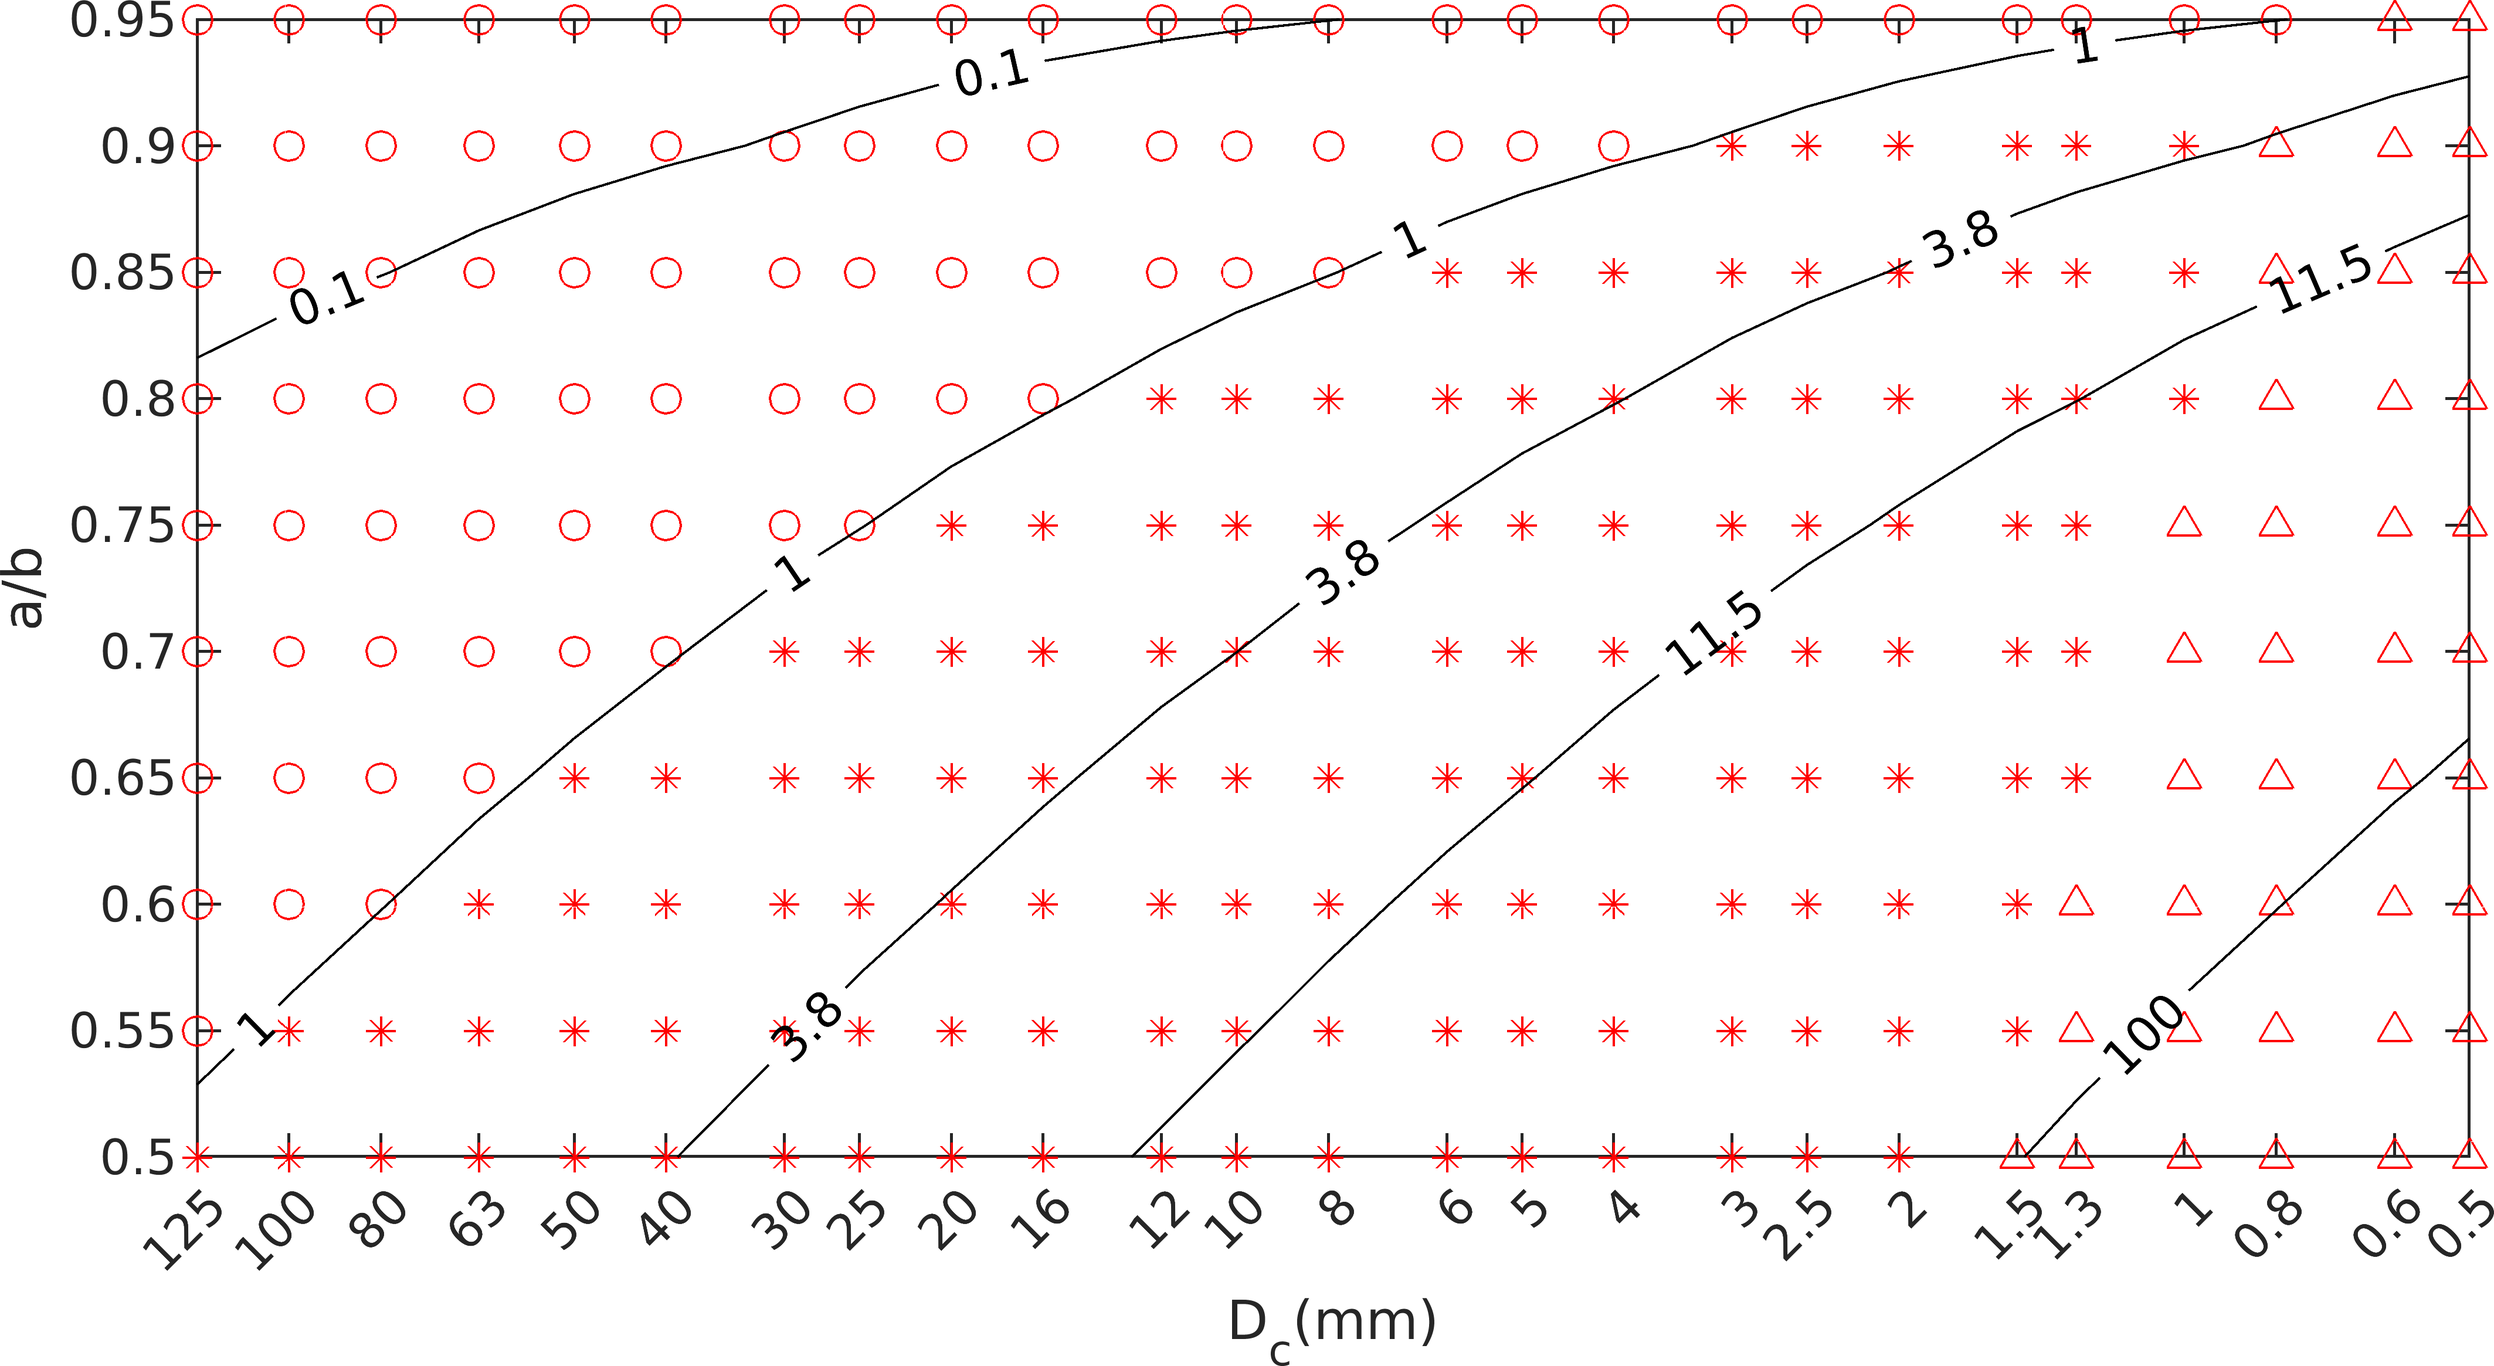
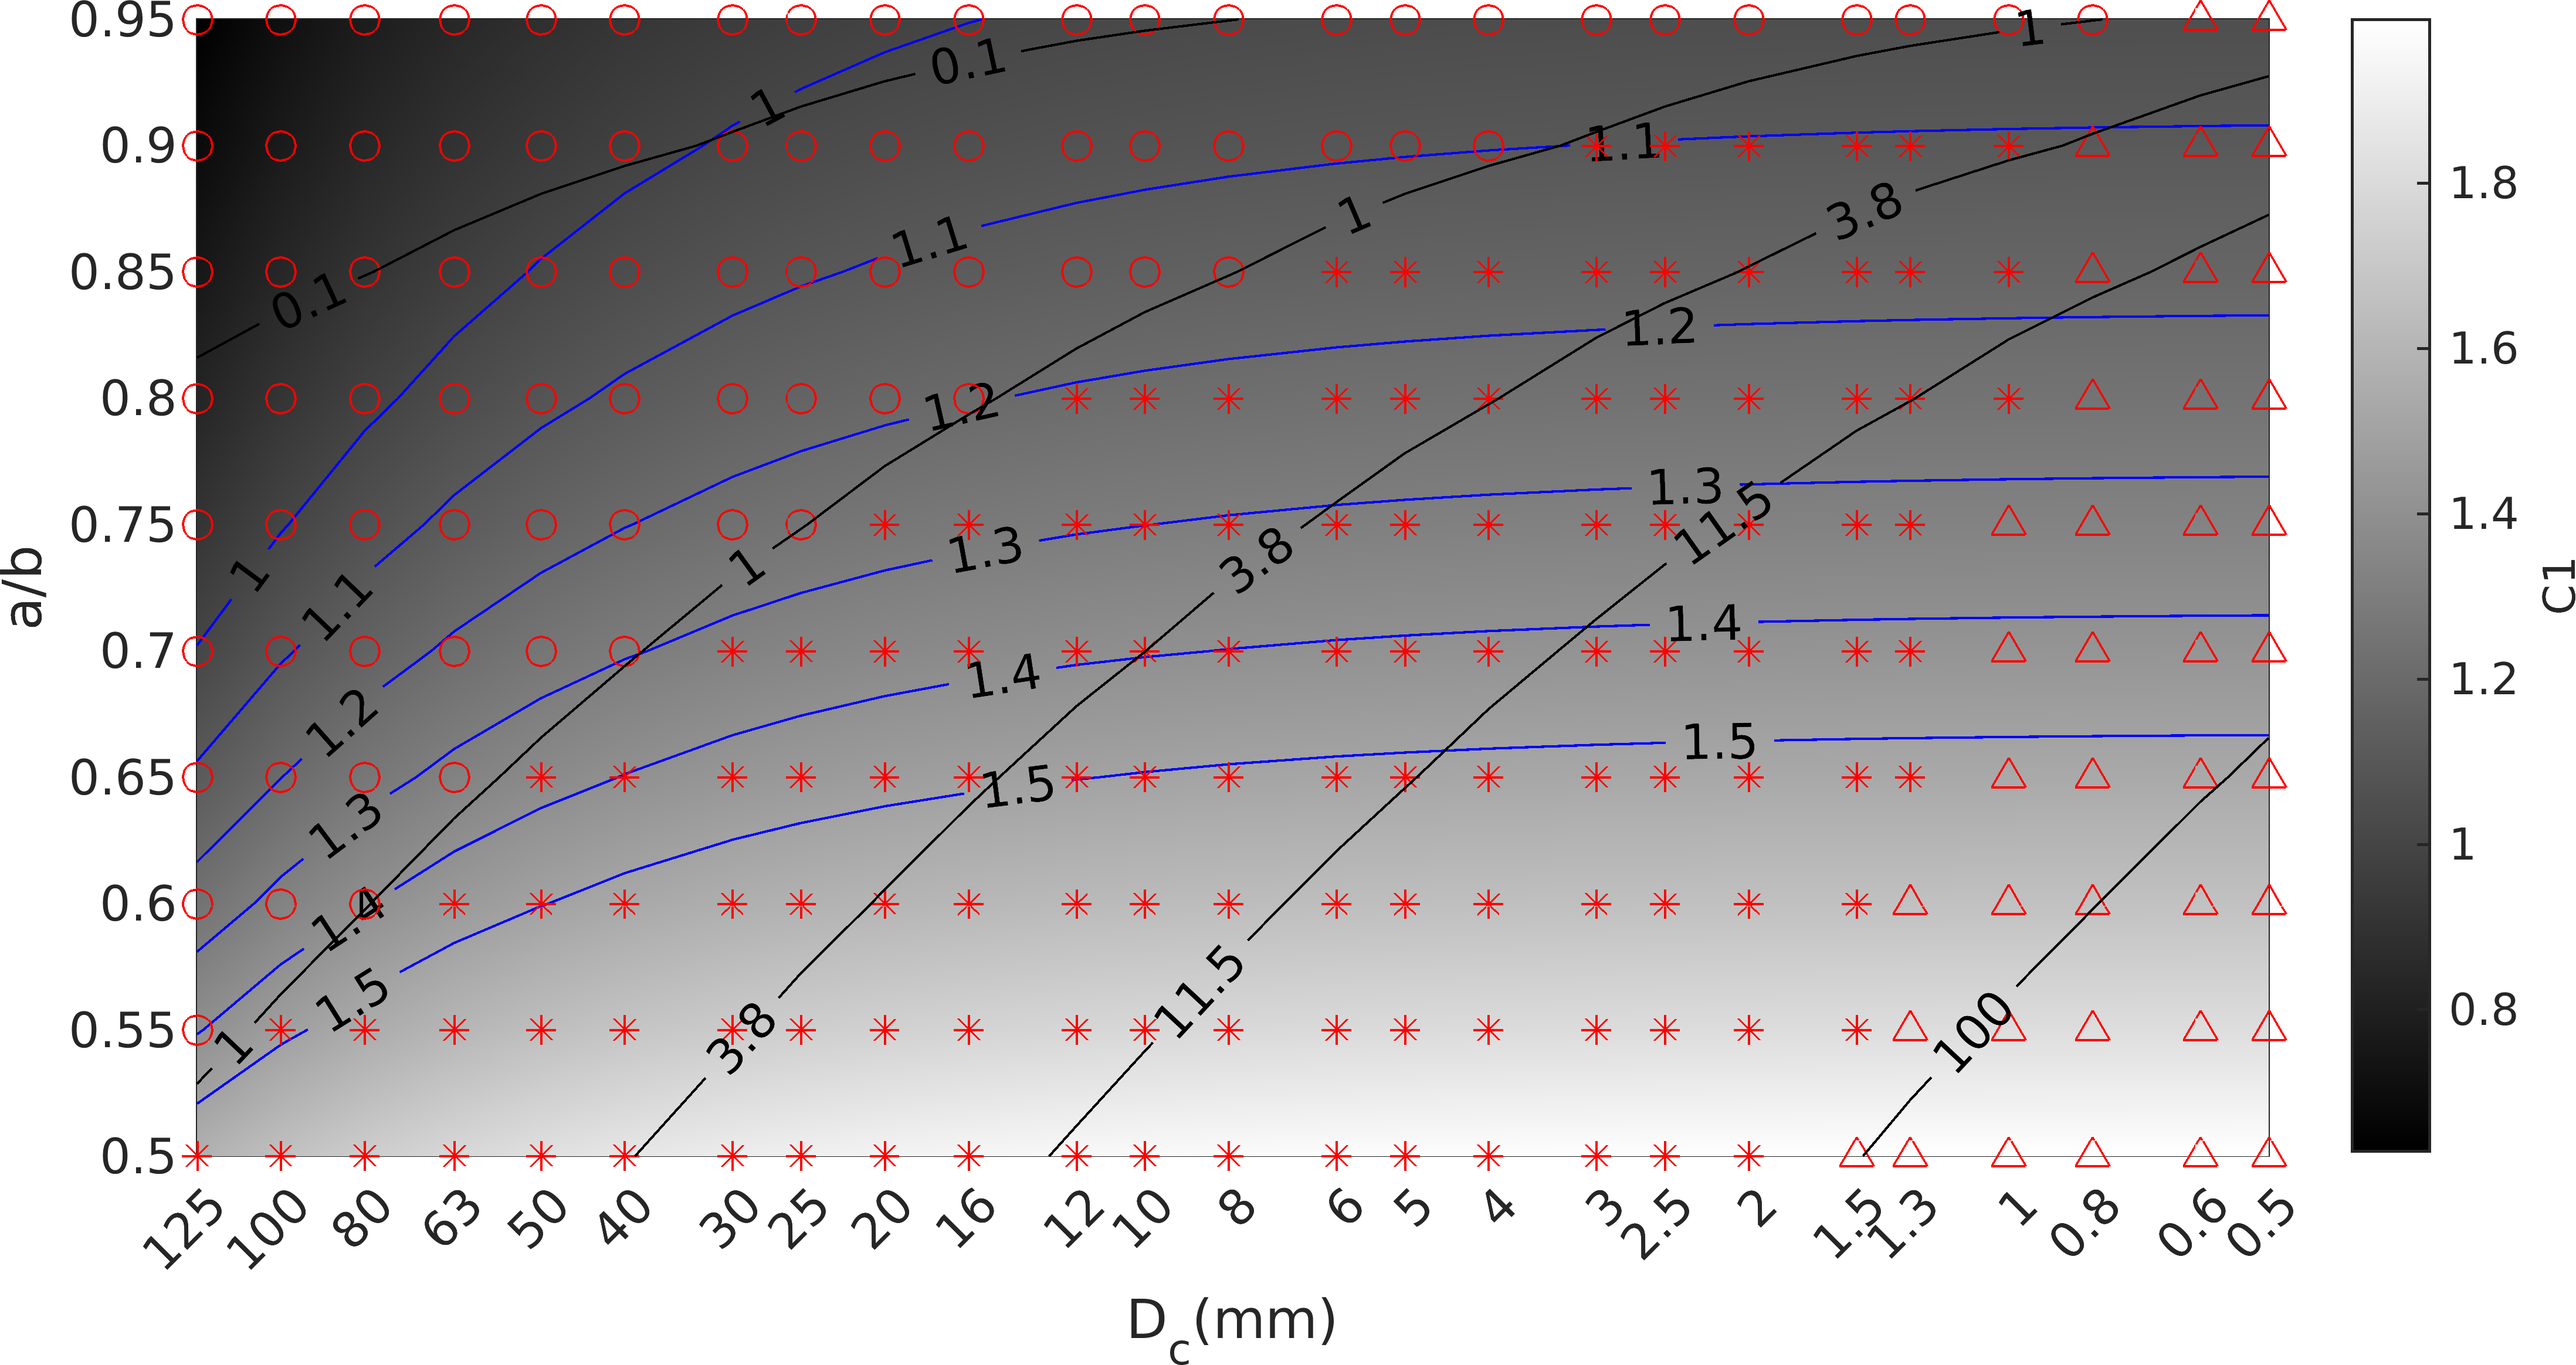
add C_1 values

diff --git a/Matlab/phase_diagram/Ru_b_Dc_Rubin_Ampuero.m b/Matlab/phase_diagram/Ru_b_Dc_Rubin_Ampuero.m
@@ -21,7 +21,7 @@ L = [0.5,0.6,0.8,1,1.3,1.5,2,2.5,3,4,5,6,8,10,12,16,20,25,30,40,50,63,80,100,125
 %H = [250, 500, 1000, 1500, 2000];      % m  half-width of damage zone
 H = 0;    % half-width
 NS = zeros(length(r),length(L),length(H));
-W = 10000;
+W = 10000;    % unit:m
 m = 0; n=0; q=0;
 for i = 1:length(b)
         % define the simulation time for different a/b
@@ -46,7 +46,10 @@ for i = 1:length(b)
 %                        mu_D*L(j)/sigma/(a/a_b(i)-a)/W;    % without pi/4? 
             y = double(vpasolve(exp,[0,1000000000]));
             Ru(i,j,k) = y;
+            kk = mu/(W/2)/pi;
+            C_1(i,j,k) = b(i)/a*(1-kk*L(j)/b(i)/sigma);
             Cohesive(i,j,k) = (9*pi/32)*mu_D*r*L(j)/b(i)./sigma;
+         
             if (y>=1) && (Cohesive(i,j,k) > 400/res*3)
                 m = m+1;
                 P_1(m,:) = [log10(L(j)*1000), a_b(i), L(j),b(i), T(i)];     % resolution is enough
@@ -65,22 +68,26 @@ end
 % A = pcolor(X,Y,Ru');
 % v = [2,3,7.5,18.35,56.4,88];
 % v = [2,3,5,10,15,20,30,40,50,60,70,80,100,200,400];
-v = [0.1, 1,3.8, 11.5, 100];
+
 figure(1)
 set(0,'defaultfigurecolor','w')
 set(gcf,'Position',[20 20 800 400]);%左下角位置，宽高
+pcolor(X,Y,C_1')
 hold on
+shading interp
+colormap(gray)
+clim([min(min(C_1)),max(max(C_1))])
+c = colorbar;
+ylabel(c, 'C1')
+v = [1,1.1,1.2,1.3,1.4,1.5];
+[c,h]=contour(X,Y,C_1',v);
+clabel(c,h)
+set(h,"color","blue")
+
 scatter(P_1(:,1),P_1(:,2) ,'*','r' )
 scatter(P_2(:,1),P_2(:,2) ,'^','r' )
 scatter(P_3(:,1),P_3(:,2) ,'o','r' )
-% pcolor(X,Y,Cohesive')
-% shading interp
-% colormap(gray)
-% min(min(Cohesive))
-% clim([0 75])
-% c = colorbar;
-% ylabel(c, '3*Cohesive zone size(m)')
-% hold on
+v = [0.1, 1,3.8, 11.5, 100];
 [c,h]=contour(X,Y,Ru',v);
 clabel(c,h)
 set(h,"color","black")
